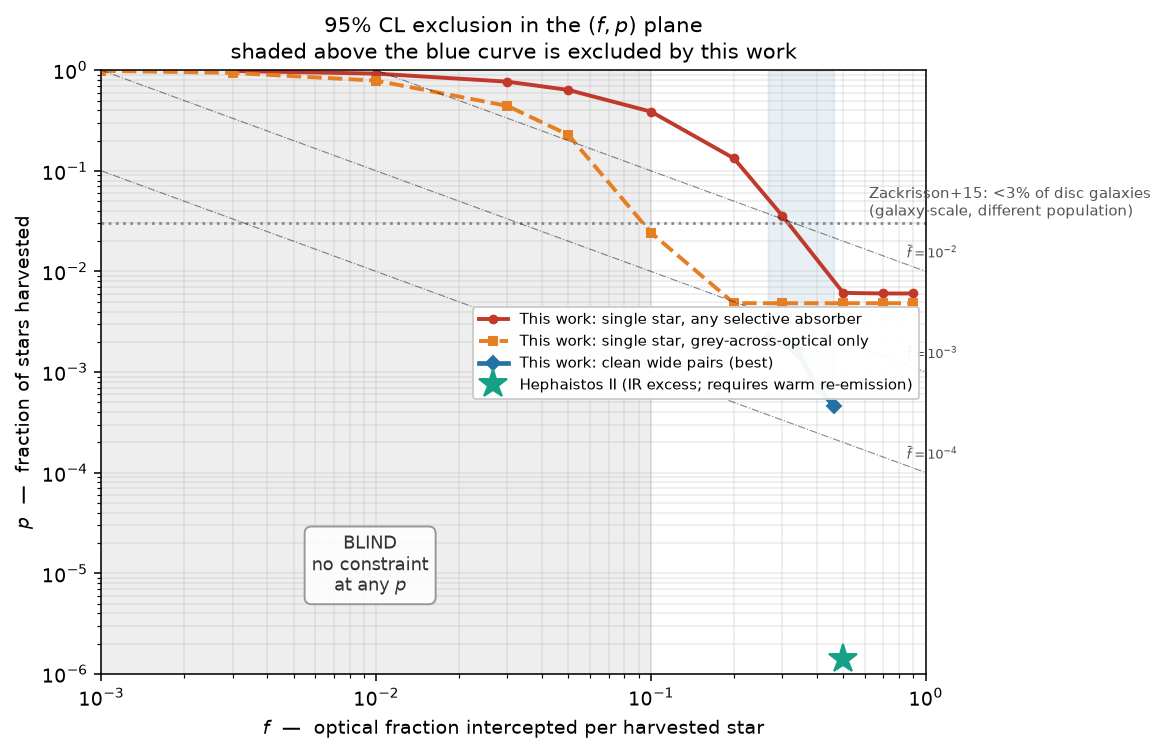
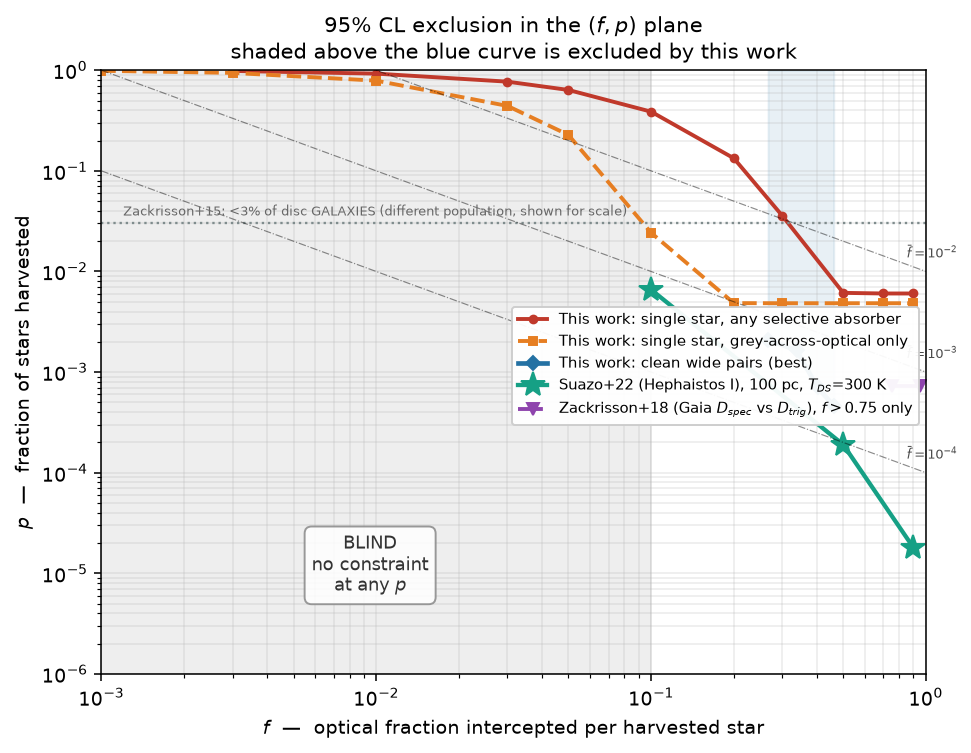
Literature correction: Zackrisson+18 is the methodological ancestor; Suazo+22 already has a stronger limit. Novelty claim corrected, prior limits added to contour.

diff --git a/scripts/28_exclusion_contour.py b/scripts/28_exclusion_contour.py
@@ -67,20 +67,30 @@ def main() -> int:
             bbox=dict(boxstyle="round,pad=0.4", fc="white", ec="#888888",
                       alpha=0.85))
 
-    # --- prior work -------------------------------------------------------
-    # Zackrisson et al. 2015: <3% of local disc galaxies host galaxy-scale
-    # astroengineering dimming the Tully-Fisher relation. Not the same axis
-    # (galaxies, not stars) -- drawn as an annotation, not a curve.
-    ax.axhline(0.03, color="#7f8c8d", ls=":", lw=1.4)
-    ax.text(0.62, 0.036, "Zackrisson+15: <3% of disc galaxies\n"
-                          "(galaxy-scale, different population)",
-            fontsize=7.5, color="#555555")
+    # --- PRIOR WORK, on the same axes -------------------------------------
+    # Suazo et al. 2022 (Hephaistos I), MNRAS 512, 2988: upper limits on the
+    # fraction of stars with a partial Dyson sphere, within 100 pc, T_DS=300 K,
+    # from ~2.7e5 stars. These are DIRECTLY comparable to ours and they are
+    # BETTER. Their model is (1-gamma)L_star + gamma*BB(T_DS), i.e. it uses the
+    # optical obscuration AND the infrared re-emission together.
+    suazo_g = np.array([0.1, 0.5, 0.9])
+    suazo_p = np.array([6.6e-3, 1.9e-4, 1.8e-5])
+    ax.plot(suazo_g, suazo_p, color="#16a085", lw=2.2, marker="*", ms=13,
+            label="Suazo+22 (Hephaistos I), 100 pc, $T_{DS}$=300 K")
 
-    # Suazo et al. 2024 (Hephaistos II): 7 candidates in ~5e6 sources, i.e.
-    # a rate <~1.4e-6, but ONLY for objects with detectable warm dust
-    # re-emission. Drawn as a point with an arrow to mark the different regime.
-    ax.plot([0.5], [1.4e-6], marker="*", ms=15, color="#16a085", ls="none",
-            label="Hephaistos II (IR excess; requires warm re-emission)")
+    # Zackrisson et al. 2018, ApJ 862, 21: the direct methodological ancestor
+    # of this work -- Gaia optical underluminosity, via spectrophotometric vs
+    # parallax distance. Sensitive only above f_cov ~ 0.75. 6 unexplained
+    # outliers in 8,365 vetted stars gives a conservative p < 7.2e-4.
+    ax.plot([0.75, 0.95], [7.2e-4, 7.2e-4], color="#8e44ad", lw=2.0, ls="-.",
+            marker="v", ms=6,
+            label="Zackrisson+18 (Gaia $D_{spec}$ vs $D_{trig}$), $f>0.75$ only")
+
+    # Zackrisson et al. 2015: galaxy-scale, a different population entirely.
+    ax.axhline(0.03, color="#7f8c8d", ls=":", lw=1.2)
+    ax.text(0.0012, 0.036, "Zackrisson+15: <3% of disc GALAXIES "
+                           "(different population, shown for scale)",
+            fontsize=6.5, color="#666666")
 
     ax.set_xscale("log"); ax.set_yscale("log")
     ax.set_xlim(1e-3, 1.0)

diff --git a/PAPER.md b/PAPER.md
@@ -111,6 +111,76 @@ f̄ ~ 10⁻⁵ (decisive).
 **The purpose of this paper is to show that this scaling fails, to measure
 where and why, and to report what the channel actually delivers.**
 
+### 1.3 This is not the first stellar optical-deficit search, and not the best limit
+
+We state this plainly because we initially framed the work as more novel than
+it is, and a reader deserves the correction up front.
+
+**[Zackrisson et al. (2018)](https://doi.org/10.3847/1538-4357/aac386)** is the
+direct methodological ancestor. They search for optically underluminous stars
+by comparing spectrophotometric to trigonometric distance, since a dimmed star
+has its spectrophotometric distance overestimated while its parallax does not
+move: f_cov = 1 − (D_trig/D_spec)². On ~230,000 Gaia DR1 × RAVE DR5 stars
+(8,441 after cuts) they find 75 stars at f_cov > 0.9, reducing to six
+unexplained outliers after vetting.
+
+Their method is sensitive **only to nearly complete spheres** — it takes
+f_cov > 0.75 to produce the factor-of-two distance discrepancy the method
+needs, and a 10% covering fraction gives a ~5% distance disagreement that is
+undetectable. That is the same sensitivity regime we reach, from a different
+observable.
+
+Their prime candidate, TYC 6111-1162-1 (f_cov ≈ 0.77, and notably *without*
+mid-infrared excess), resolved to a **single-lined spectroscopic binary** whose
+unseen ~1 M☉ white-dwarf companion perturbed the Gaia parallax. We regard this
+as important independent corroboration: their one candidate died of binarity,
+and we find binarity to be the dominant contaminant by a completely different
+route (§5.5). Two methods, two different observables, the same false-positive
+population.
+
+**[Suazo et al. (2022)](https://doi.org/10.1093/mnras/stac1789)** (Hephaistos I)
+already set upper limits on partial Dyson spheres using Gaia DR2 × AllWISE with
+the AGENT formalism, modelling the system as
+L_ν = (1−γ)L_ν,⋆ + γ·BB_ν(T_DS) — that is, **using the optical obscuration and
+the infrared re-emission together**. Within 100 pc at T_DS = 300 K they obtain
+
+| covering fraction | upper limit on fraction of stars |
+|---|---|
+| γ ≥ 0.1 | 6.6 × 10⁻³ |
+| γ ≥ 0.5 | **1.9 × 10⁻⁴** |
+| γ ≥ 0.9 | 1.8 × 10⁻⁵ |
+
+**Their limit at γ ≥ 0.5 is roughly 2.4× stronger than our best
+(4.6 × 10⁻⁴ at f ≥ 0.46).** We do not set a record and we do not claim one.
+
+### 1.4 What is actually new here
+
+Given the above, the contribution of this work is not the limit. It is:
+
+1. **A measurement of the systematic floor of the deficit channel.** No prior
+   work quantifies where σ/√N stops applying. We find it stops **957–1376×**
+   above the naive value, and we identify what sets it.
+2. **Identification and localisation of the dominant contaminant** as
+   Gaia/2MASS aperture mismatch, pinned to θ ≲ 6.5″ (§5.5). This is structural
+   and limits any 2MASS-anchored search, including future ones.
+3. **Three methodological corrections** that we believe are not stated
+   correctly elsewhere: a uniform deficit is unmeasurable by a self-calibrated
+   relation (§3.2); unresolved companions mimic rather than suppress the signal
+   because dM_G/dM_Ks > 1 (§5.5); and the spectral blind spot lies at α ≈ 0.19
+   rather than at a grey absorber (§3.3). The last bears directly on Hephaistos'
+   choice to model obscuration as grey.
+4. **A differential wide-pair technique** with a *measured* symmetric
+   background, which is the only estimator here that permits background
+   subtraction (§5.6).
+
+A note on method complementarity: our estimator regresses against an empirical
+main-sequence relation, which is why a uniform or grey deficit is invisible to
+it. Zackrisson et al. and Suazo et al. use absolute SED fitting against a
+parallax, which does **not** share that blind spot — a grey absorber makes a
+star underluminous in every band and is directly detectable that way. Our blind
+spots and theirs are different, which is an argument for running both rather
+than for preferring either.
+
 ### 1.3 Related approaches
 
 Other lines of attack share our motivation of looking for absence rather than
@@ -509,13 +579,44 @@ intrinsic width of the scaling relation regressed against — Tully–Fisher for
 them, the main sequence for us — rather than by photon noise. Our relation is
 several times tighter per object; our limiting factor is contamination.
 
-Against [Suazo et al. (2024)](https://doi.org/10.1093/mnras/stae1186): they
-reach covering fractions ~10⁻⁴ **for objects with detectable warm dust**,
-because infrared excess is measured against a near-zero photospheric
-background. We reach f ≳ 0.2–0.46 per star, because a deficit is measured
-against a 0.089 mag main-sequence width. The optical channel's advantage is
-geometric completeness; its cost is roughly **three orders of magnitude in
-per-object sensitivity**. That trade is the central quantitative result here.
+Against [Suazo et al. (2022)](https://doi.org/10.1093/mnras/stac1789),
+Hephaistos I — the direct numerical comparison:
+
+| | covering fraction | limit on p |
+|---|---|---|
+| Suazo+22, 100 pc, 300 K | γ ≥ 0.5 | **1.9 × 10⁻⁴** |
+| **This work, clean pairs, 500 pc** | f ≥ 0.46 | 4.6 × 10⁻⁴ |
+| Suazo+22, 100 pc, 300 K | γ ≥ 0.9 | 1.8 × 10⁻⁵ |
+
+**Their limit is ~2.4× stronger at comparable covering fraction, from ~12×
+fewer stars.** The reason is instructive: their estimator uses the infrared
+re-emission as well as the obscuration, and infrared excess is measured against
+a near-zero photospheric background whereas a deficit is measured against a
+0.089 mag main-sequence width. Adding a second, near-background-free channel is
+worth more than adding an order of magnitude in N — which is the same lesson
+§4.2 teaches from the other direction.
+
+The compensating argument for the deficit channel is coverage, not depth. A
+limit derived from a model that includes γ·BB(T_DS) constrains spheres that
+re-radiate into 4π at the assumed temperature. A beamed radiator, a sphere cold
+enough to fall outside WISE, or one that exports its energy non-thermally is
+weighted differently by that estimator and not at all by ours. We cannot
+quantify how much of that class Hephaistos retains without re-running their
+pipeline with the re-emission term suppressed, and we do not claim a number
+for it.
+
+Against [Zackrisson et al. (2018)](https://doi.org/10.3847/1538-4357/aac386):
+comparable per-object sensitivity (their f_cov > 0.75, our f ≳ 0.46) from a
+different observable, on 400× fewer stars. Their single candidate was killed by
+an unseen binary companion; we find binarity to be the dominant contaminant
+from an independent direction. The agreement on the *failure mode* is stronger
+evidence than either limit.
+
+Against [Zackrisson et al. (2015)](https://doi.org/10.1088/0004-637X/810/1/23):
+their <3% is a limit on the fraction of *galaxies*, ours on the fraction of
+*stars*. Not directly comparable, but both are limited by the intrinsic width
+of the scaling relation regressed against — Tully–Fisher for them, the main
+sequence for us — rather than by photon noise.
 
 ### 6.3 What this does and does not constrain
 
@@ -573,15 +674,25 @@ judge the pipeline's reliability.
   scale-free. Trusting the 20× would have been wrong by an order of magnitude.
 - We expected wide-binary common-mode cancellation to be large. It is **34%**.
 - The blinding scheme did not blind the primary statistic (§5.2).
+- **We initially framed this as the first stellar optical-deficit search and as
+  setting the best limit. Both were wrong** — Zackrisson et al. (2018) precedes
+  it methodologically and Suazo et al. (2022) already had a stronger limit at
+  comparable covering fraction. The literature review that found this was done
+  after the analysis rather than before it, which is the wrong order and is
+  exactly how a novelty claim gets overstated. §1.3 and §6.2 carry the
+  correction.
 
 ---
 
 ## 7. Conclusions
 
 1. The optical-deficit channel is **background-limited, not statistics-limited**.
-   The naive σ/√N sensitivity overstates the truth by **957–1376×**.
-2. Best constraint: **f̄ < 2.1 × 10⁻⁴**, **p < 4.6 × 10⁻⁴** at f ≥ 0.46, from
-   clean wide pairs. **Zero candidates.**
+   The naive σ/√N sensitivity overstates the truth by **957–1376×**. This is
+   the main result and we believe it is new.
+2. Our constraint is **f̄ < 2.1 × 10⁻⁴**, **p < 4.6 × 10⁻⁴** at f ≥ 0.46, from
+   clean wide pairs, with **zero candidates**. This is *not* the strongest
+   published limit: Suazo et al. (2022) reach 1.9 × 10⁻⁴ at γ ≥ 0.5 using the
+   infrared re-emission as well.
 3. **A uniform deficit is unmeasurable** by any self-calibrated version of this
    method.
 4. **Unresolved companions mimic the signal**, because dM_G/dM_Ks = 1.26 > 1.
@@ -619,9 +730,10 @@ wsl -d kali-linux bash run_after_unblind.sh
 - Lindegren L. et al., 2021, A&A, 649, A4
 - Riello M. et al., 2021, A&A, 649, A3
 - Skrutskie M. F. et al., 2006, AJ, 131, 1163
-- Suazo M. et al., 2022, MNRAS, 512, 2988
-- Suazo M. et al., 2024, MNRAS, 531, 695
-- Villarroel B. et al., 2020, AJ, 159, 8
+- Suazo M., Zackrisson E., Wright J. T., Korn A. J., Huston M., 2022, MNRAS, 512, 2988 — *Project Hephaistos I: upper limits on partial Dyson spheres*
+- Suazo M. et al., 2024, MNRAS, 531, 695 — *Project Hephaistos II*
+- Villarroel B. et al., 2020, AJ, 159, 8 — *VASCO I*
+- Zackrisson E., Korn A. J., Wehrhahn A., Reiter J., 2018, ApJ, 862, 21 — *SETI with Gaia: nearly complete Dyson spheres*
 - Wang S., Chen X., 2019, ApJ, 877, 116
 - Wright J. T. et al., 2014a, ApJ, 792, 26
 - Wright J. T. et al., 2014b, ApJ, 792, 27
